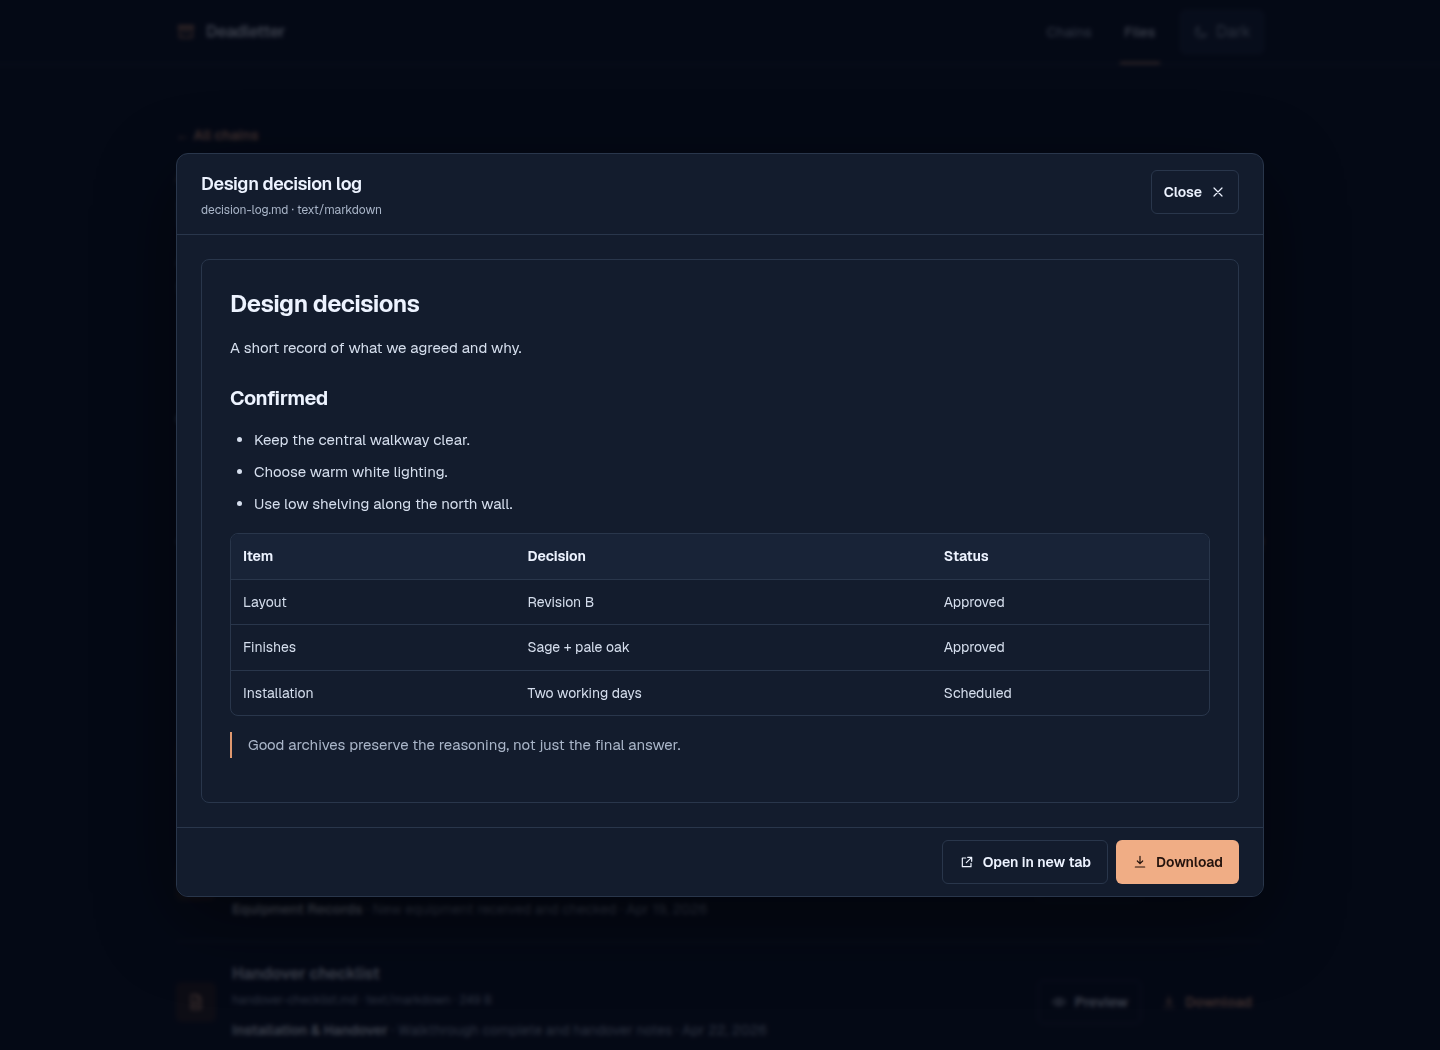
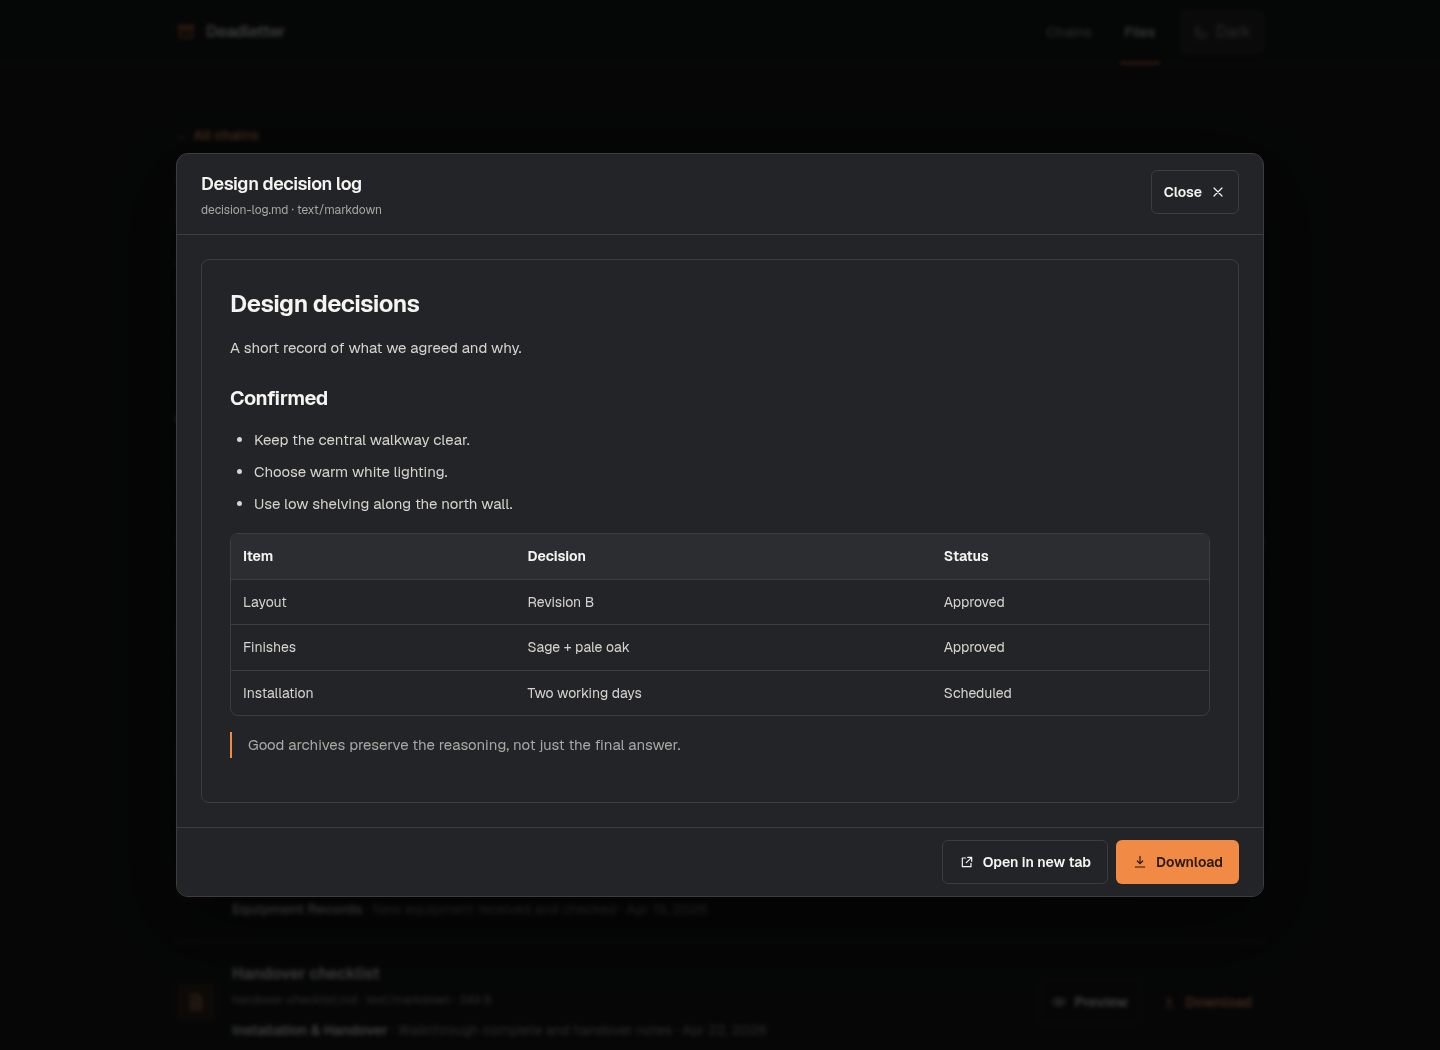
feat: apply charcoal and ember theme with refreshed screenshots

Changed region(s): [[0.75, 0.7924, 0.875, 0.8533]]

diff --git a/components/ShareControls.tsx b/components/ShareControls.tsx
@@ -8,7 +8,7 @@ type ShareControlsProps = { initialActive: boolean; initialGrantId?: string; res
 type MutationResult = { active?: boolean; grantId?: string; shareUrl?: string; error?: string };
 
 const triggerClass = "min-h-11 rounded-md border border-[var(--line-strong)] px-3 text-sm font-semibold outline-none focus-visible:ring-2 focus-visible:ring-[var(--accent)]";
-const primaryClass = "min-h-11 rounded-md bg-[var(--accent-strong)] px-4 text-sm font-semibold text-[var(--on-accent)] outline-none disabled:opacity-60 focus-visible:ring-2 focus-visible:ring-[var(--accent)]";
+const primaryClass = "min-h-11 rounded-md bg-[var(--accent)] px-4 text-sm font-semibold text-[var(--on-accent)] outline-none hover:bg-[var(--accent-hover)] disabled:opacity-60 focus-visible:ring-2 focus-visible:ring-[var(--accent)]";
 
 function Overlay({ children }: { children: React.ReactNode }) {
   return <div className="fixed inset-0 z-50 grid place-items-center overflow-y-auto bg-[var(--modal-overlay)] p-4">{children}</div>;
@@ -48,7 +48,7 @@ export default function ShareControls({ initialActive, initialGrantId, resourceI
     </Dialog.Root>
     {active && grantId ? <>
       <AlertDialog.Root><AlertDialog.Trigger asChild><button type="button" className={triggerClass}>Regenerate</button></AlertDialog.Trigger><AlertDialog.Portal><AlertDialog.Overlay asChild><Overlay><AlertDialog.Content className="w-full max-w-lg rounded-xl border border-[var(--line-strong)] bg-[var(--surface)] p-5 shadow-[var(--modal-shadow)]"><AlertDialog.Title className="text-lg font-semibold">Regenerate public link?</AlertDialog.Title><AlertDialog.Description className="mt-4 text-sm leading-6 text-[var(--muted)]">The previous URL will stop working immediately.</AlertDialog.Description><div className="mt-5 flex justify-end gap-2"><AlertDialog.Cancel asChild><button type="button" className="min-h-11 rounded-md px-4 text-sm font-semibold">Cancel</button></AlertDialog.Cancel><AlertDialog.Action asChild><button type="button" disabled={busy} className={primaryClass} onClick={() => mutate(`/api/shares/${grantId}/regenerate`, {}, "regenerate")}>Regenerate</button></AlertDialog.Action></div></AlertDialog.Content></Overlay></AlertDialog.Overlay></AlertDialog.Portal></AlertDialog.Root>
-      <AlertDialog.Root><AlertDialog.Trigger asChild><button type="button" className={`${triggerClass} text-red-700`}>Revoke</button></AlertDialog.Trigger><AlertDialog.Portal><AlertDialog.Overlay asChild><Overlay><AlertDialog.Content className="w-full max-w-lg rounded-xl border border-[var(--line-strong)] bg-[var(--surface)] p-5 shadow-[var(--modal-shadow)]"><AlertDialog.Title className="text-lg font-semibold">Revoke public link?</AlertDialog.Title><AlertDialog.Description className="mt-4 text-sm leading-6 text-[var(--muted)]">This permanently disables the current link. Sharing again creates a new grant.</AlertDialog.Description><div className="mt-5 flex justify-end gap-2"><AlertDialog.Cancel asChild><button type="button" className="min-h-11 rounded-md px-4 text-sm font-semibold">Cancel</button></AlertDialog.Cancel><AlertDialog.Action asChild><button type="button" disabled={busy} className={primaryClass} onClick={() => mutate(`/api/shares/${grantId}/revoke`, {}, "revoke")}>Revoke</button></AlertDialog.Action></div></AlertDialog.Content></Overlay></AlertDialog.Overlay></AlertDialog.Portal></AlertDialog.Root>
+      <AlertDialog.Root><AlertDialog.Trigger asChild><button type="button" className={`${triggerClass} text-[var(--danger)]`}>Revoke</button></AlertDialog.Trigger><AlertDialog.Portal><AlertDialog.Overlay asChild><Overlay><AlertDialog.Content className="w-full max-w-lg rounded-xl border border-[var(--line-strong)] bg-[var(--surface)] p-5 shadow-[var(--modal-shadow)]"><AlertDialog.Title className="text-lg font-semibold">Revoke public link?</AlertDialog.Title><AlertDialog.Description className="mt-4 text-sm leading-6 text-[var(--muted)]">This permanently disables the current link. Sharing again creates a new grant.</AlertDialog.Description><div className="mt-5 flex justify-end gap-2"><AlertDialog.Cancel asChild><button type="button" className="min-h-11 rounded-md px-4 text-sm font-semibold">Cancel</button></AlertDialog.Cancel><AlertDialog.Action asChild><button type="button" disabled={busy} className={primaryClass} onClick={() => mutate(`/api/shares/${grantId}/revoke`, {}, "revoke")}>Revoke</button></AlertDialog.Action></div></AlertDialog.Content></Overlay></AlertDialog.Overlay></AlertDialog.Portal></AlertDialog.Root>
     </> : null}
     {!dialogOpen && message ? <p aria-live="polite" className="w-full text-sm text-[var(--muted)]">{message}</p> : null}
   </div>;

diff --git a/app/globals.css b/app/globals.css
@@ -2,46 +2,54 @@
 
 :root {
   color-scheme: light;
-  --background: #ffffff;
+  --background: #fafaf8;
   --surface: #ffffff;
-  --ink: #0b1734;
-  --body-ink: #263148;
-  --muted: #5f6879;
-  --line: #e3e6eb;
-  --line-strong: #cbd0d8;
-  --surface-subtle: #f7f8fa;
-  --accent: #bc7149;
-  --accent-strong: #925033;
-  --accent-hover: #783e28;
-  --accent-soft: #fbf1eb;
-  --header-background: rgba(255, 255, 255, 0.93);
+  --ink: #232526;
+  --body-ink: #45494d;
+  --muted: #686f77;
+  --line: #e3e4e2;
+  --line-strong: #cbcfcc;
+  --surface-subtle: #f5f4f1;
+  --accent: #b84f0c;
+  --accent-strong: #a9430b;
+  --accent-hover: #923b08;
+  --accent-soft: #fff0e2;
+  --header-background: rgba(250, 250, 248, 0.93);
   --on-accent: #ffffff;
-  --control-active: #0b1734;
+  --control-active: #a9430b;
   --control-active-ink: #ffffff;
-  --modal-overlay: rgba(9, 18, 39, 0.58);
-  --card-shadow: 0 1px 3px rgba(15, 23, 42, 0.04);
-  --modal-shadow: 0 24px 80px rgba(15, 23, 42, 0.22);
+  --warning: #856014;
+  --warning-soft: #fff8df;
+  --danger: #b42318;
+  --danger-soft: #fff0ee;
+  --modal-overlay: rgba(0, 0, 0, 0.58);
+  --card-shadow: 0 1px 3px rgba(0, 0, 0, 0.04);
+  --modal-shadow: 0 24px 80px rgba(0, 0, 0, 0.22);
 }
 
 :root[data-theme="dark"] {
   color-scheme: dark;
-  --background: #0c1220;
-  --surface: #131c2d;
-  --ink: #edf3ff;
-  --body-ink: #d5deed;
-  --muted: #a9b5c8;
-  --line: #29364b;
-  --line-strong: #40506b;
-  --surface-subtle: #182337;
-  --accent: #df986f;
-  --accent-strong: #f0ad85;
-  --accent-hover: #f5bd9b;
-  --accent-soft: #30221e;
-  --header-background: rgba(12, 18, 32, 0.93);
-  --on-accent: #24130d;
-  --control-active: #e7eef9;
-  --control-active-ink: #101827;
-  --modal-overlay: rgba(2, 6, 18, 0.76);
+  --background: #191a1c;
+  --surface: #232428;
+  --ink: #f5f4f2;
+  --body-ink: #d6d3ce;
+  --muted: #a8a7a3;
+  --line: #3d3d40;
+  --line-strong: #5d5f64;
+  --surface-subtle: #2c2d31;
+  --accent: #f18a44;
+  --accent-strong: #f7a066;
+  --accent-hover: #ffaf79;
+  --accent-soft: #342920;
+  --header-background: rgba(25, 26, 28, 0.93);
+  --on-accent: #29190f;
+  --control-active: #f7a066;
+  --control-active-ink: #29190f;
+  --warning: #eac66b;
+  --warning-soft: #302b1f;
+  --danger: #ffb4ab;
+  --danger-soft: #342321;
+  --modal-overlay: rgba(0, 0, 0, 0.76);
   --card-shadow: 0 1px 4px rgba(0, 0, 0, 0.24);
   --modal-shadow: 0 24px 80px rgba(0, 0, 0, 0.48);
 }
@@ -102,6 +110,7 @@ a {
 }
 
 .text-link:hover {
+  color: var(--accent-hover);
   text-decoration: underline;
   text-decoration-color: var(--accent);
   text-underline-offset: 0.25rem;
@@ -167,6 +176,10 @@ a {
   text-decoration: underline;
   text-decoration-color: var(--accent);
   text-underline-offset: 0.18rem;
+}
+
+.archive-markdown a:hover {
+  color: var(--accent-hover);
 }
 
 .archive-markdown blockquote {

diff --git a/test/theme-colors.test.ts b/test/theme-colors.test.ts
@@ -1,0 +1,56 @@
+import { readFileSync } from "node:fs";
+
+import { describe, expect, it } from "vitest";
+
+const stylesheet = readFileSync(new URL("../app/globals.css", import.meta.url), "utf8");
+
+function themeColors(selector: string): Record<string, string> {
+  const block = stylesheet.slice(stylesheet.indexOf(selector)).split("}", 1)[0];
+  return Object.fromEntries(
+    [...block.matchAll(/--([\w-]+):\s*(#[\da-f]{6});/gi)].map((match) => [match[1], match[2]]),
+  );
+}
+
+function luminance(hex: string): number {
+  const channels = hex.slice(1).match(/../g)!.map((channel) => {
+    const value = Number.parseInt(channel, 16) / 255;
+    return value <= 0.04045 ? value / 12.92 : ((value + 0.055) / 1.055) ** 2.4;
+  });
+  return 0.2126 * channels[0] + 0.7152 * channels[1] + 0.0722 * channels[2];
+}
+
+function contrast(first: string, second: string): number {
+  const values = [luminance(first), luminance(second)].sort((a, b) => b - a);
+  return (values[0] + 0.05) / (values[1] + 0.05);
+}
+
+describe.each([
+  ["light", ":root {"],
+  ["dark", ':root[data-theme="dark"] {'],
+])("%s theme", (_name, selector) => {
+  const colors = themeColors(selector);
+
+  it("keeps normal text and brand links readable on their surfaces", () => {
+    for (const foreground of ["ink", "body-ink", "muted", "accent-strong", "accent-hover"]) {
+      for (const background of ["background", "surface", "surface-subtle", "accent-soft"]) {
+        expect(contrast(colors[foreground], colors[background]), `${foreground} on ${background}`).toBeGreaterThanOrEqual(4.5);
+      }
+    }
+  });
+
+  it("keeps primary, hovered, and selected controls readable", () => {
+    for (const background of ["accent", "accent-hover"]) {
+      expect(contrast(colors["on-accent"], colors[background]), `on-accent on ${background}`).toBeGreaterThanOrEqual(4.5);
+    }
+    expect(contrast(colors["control-active-ink"], colors["control-active"])).toBeGreaterThanOrEqual(4.5);
+  });
+
+  it("uses distinct, readable warning and error colors", () => {
+    for (const status of ["warning", "danger"]) {
+      expect(colors[status]).not.toBe(colors.accent);
+      expect(contrast(colors[status], colors[`${status}-soft`])).toBeGreaterThanOrEqual(4.5);
+      expect(contrast(colors.muted, colors[`${status}-soft`])).toBeGreaterThanOrEqual(4.5);
+      expect(contrast(colors[status], colors.surface)).toBeGreaterThanOrEqual(4.5);
+    }
+  });
+});

diff --git a/components/FilePreviewModal.tsx b/components/FilePreviewModal.tsx
@@ -261,7 +261,7 @@ export default function FilePreviewModal({ file, onClose }: FilePreviewModalProp
           </a>
           <a
             href={`${file.url}${file.url.includes("?") ? "&" : "?"}download=1`}
-            className="inline-flex min-h-11 items-center justify-center gap-2 rounded-md bg-[var(--accent-strong)] px-4 text-sm font-semibold text-[var(--on-accent)] outline-none hover:bg-[var(--accent-hover)] focus-visible:ring-2 focus-visible:ring-[var(--accent)] focus-visible:ring-offset-2"
+            className="inline-flex min-h-11 items-center justify-center gap-2 rounded-md bg-[var(--accent)] px-4 text-sm font-semibold text-[var(--on-accent)] outline-none hover:bg-[var(--accent-hover)] focus-visible:ring-2 focus-visible:ring-[var(--accent)] focus-visible:ring-offset-2"
           >
             <DownloadIcon className="size-4" />
             Download

diff --git a/components/ArchiveDiagnostics.tsx b/components/ArchiveDiagnostics.tsx
@@ -12,10 +12,10 @@ export default function ArchiveDiagnostics({
   return (
     <aside
       aria-labelledby="archive-warnings-title"
-      className="border-l-2 border-[var(--accent)] bg-[var(--accent-soft)] px-5 py-5"
+      className="border-l-2 border-[var(--warning)] bg-[var(--warning-soft)] px-5 py-5"
     >
       <div className="flex gap-3">
-        <WarningIcon className="mt-0.5 size-5 shrink-0 text-[var(--accent-strong)]" />
+        <WarningIcon className="mt-0.5 size-5 shrink-0 text-[var(--warning)]" />
         <div className="min-w-0">
           <h2 id="archive-warnings-title" className="font-semibold text-[var(--ink)]">
             Some archive content needs attention

diff --git a/components/ErrorState.tsx b/components/ErrorState.tsx
@@ -16,9 +16,9 @@ export default function ErrorState({
   title,
 }: ErrorStateProps) {
   return (
-    <div className="border-l-2 border-[var(--accent)] bg-[var(--accent-soft)] px-5 py-6 sm:px-6">
+    <div className="border-l-2 border-[var(--danger)] bg-[var(--danger-soft)] px-5 py-6 sm:px-6">
       <div className="flex gap-3">
-        <WarningIcon className="mt-0.5 size-5 shrink-0 text-[var(--accent-strong)]" />
+        <WarningIcon className="mt-0.5 size-5 shrink-0 text-[var(--danger)]" />
         <div className="min-w-0">
           <h2 className="font-semibold text-[var(--ink)]">{title}</h2>
           <p className="mt-1 text-sm leading-6 text-[var(--muted)]">{description}</p>

diff --git a/docs/development.md b/docs/development.md
@@ -43,6 +43,14 @@ validation and unit tests do not require a live Access session.
 No separate formatter is configured. `pnpm validate` runs the repository's
 canonical lint, type-check, test, and production-build pass.
 
+## Theme palette
+
+The light and dark palettes live in `app/globals.css`: warm neutral surfaces,
+charcoal text/backgrounds, and orange accents. Primary actions pair `--accent`
+with `--on-accent`; selected controls use `--control-active` and its foreground.
+Warning/error colors remain separate from brand accents. `test/theme-colors.test.ts`
+checks a minimum 4.5:1 contrast for normal text and primary/selected controls.
+
 ## Screenshot example content
 
 The [showcase archive](../examples/showcase/chains) contains six fictional
